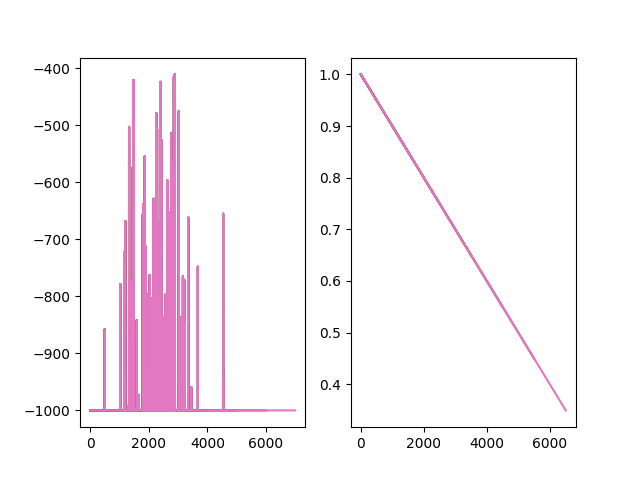
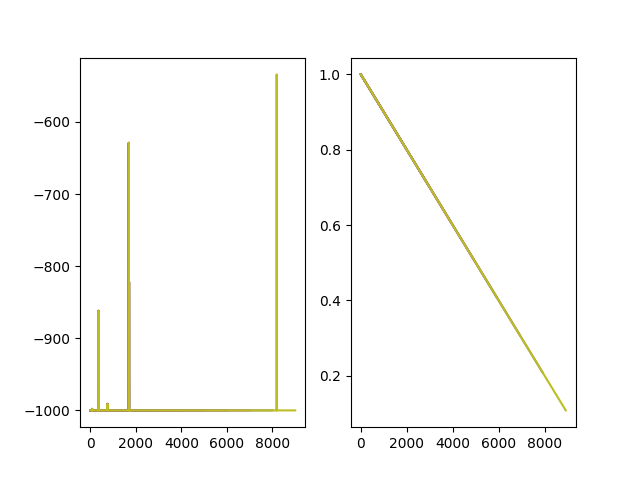
fixed learning rate

diff --git a/mountain_car.py b/mountain_car.py
@@ -8,7 +8,7 @@ from scipy.special import softmax
 
 class MountainCarDQL(DQL):
     # Hyperparameters
-    def __init__(self, learning_rate_a=0.001, learning_rate_b=0.9, replay_memory_size=100000, minibatch_size=32, network_sync_rate=50000, num_divisions=20, render=False):
+    def __init__(self, learning_rate_a=0.01, learning_rate_b=0.9, replay_memory_size=100000, minibatch_size=32, network_sync_rate=50000, num_divisions=20, render=False):
         super(MountainCarDQL, self).__init__(learning_rate_a, learning_rate_b, replay_memory_size, minibatch_size, network_sync_rate)
         self.minibatch_size=minibatch_size
         self.num_divisions=num_divisions
@@ -152,7 +152,7 @@ class MountainCarDQL(DQL):
         num_actions = env.action_space.n
 
         # Load learned policy
-        self.policy_dqn = DQN(in_states=num_states, h1_nodes=10, out_actions=num_actions)
+        self.policy_dqn = DQN(in_states=num_states, h1_nodes=30, out_actions=num_actions)
         self.policy_dqn.load_state_dict(torch.load('mountaincar_dql.pt'))
         self.policy_dqn.eval() # set model to evaluation mode since not learning
         terminated = False
